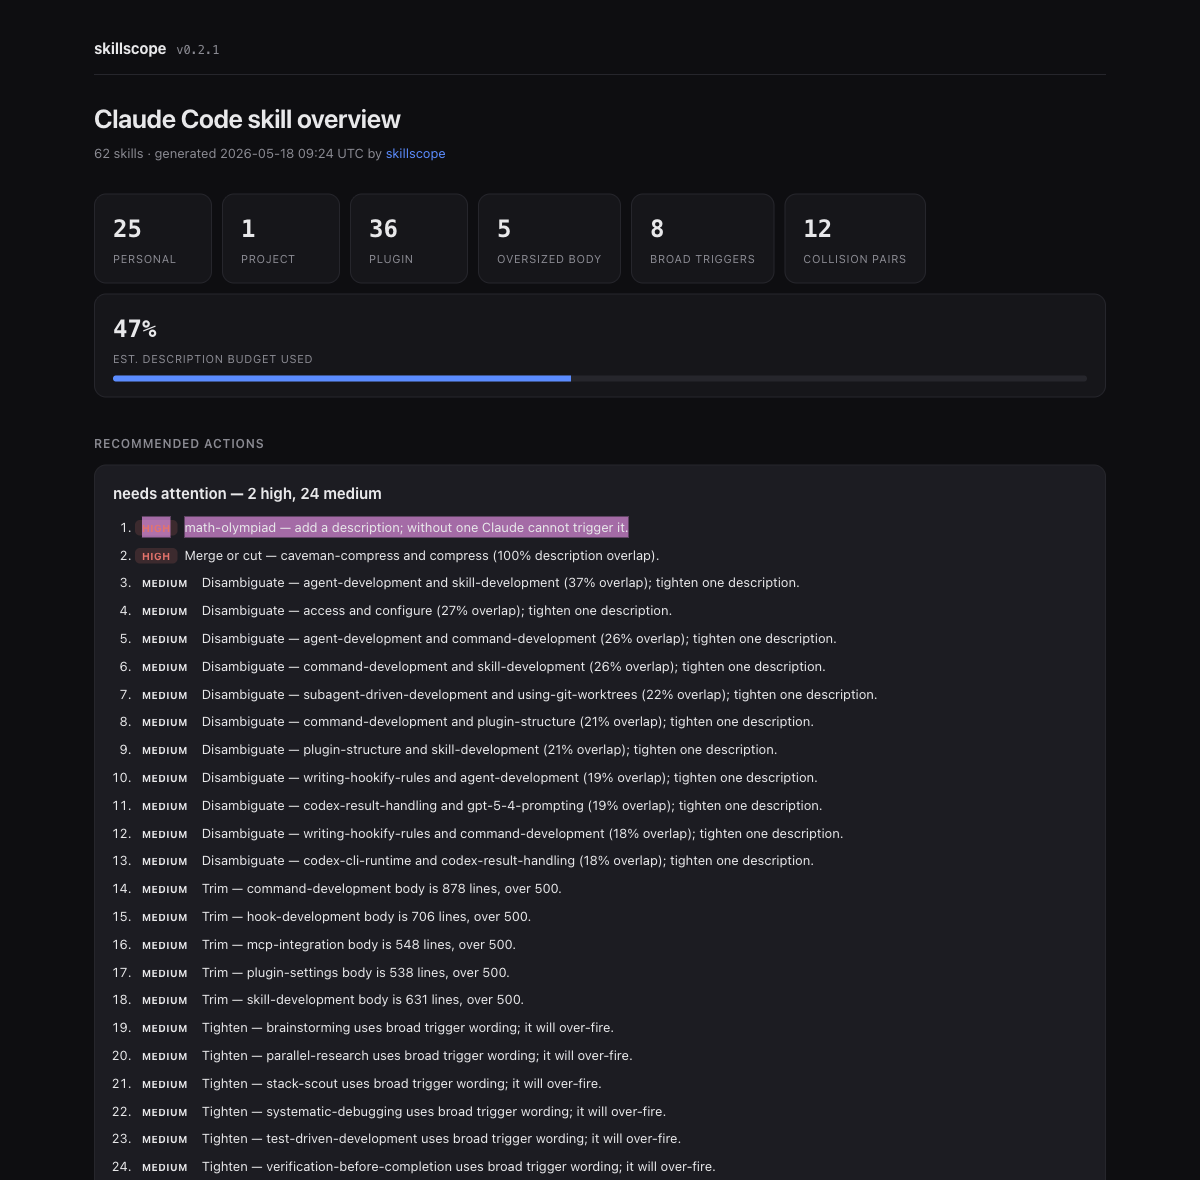
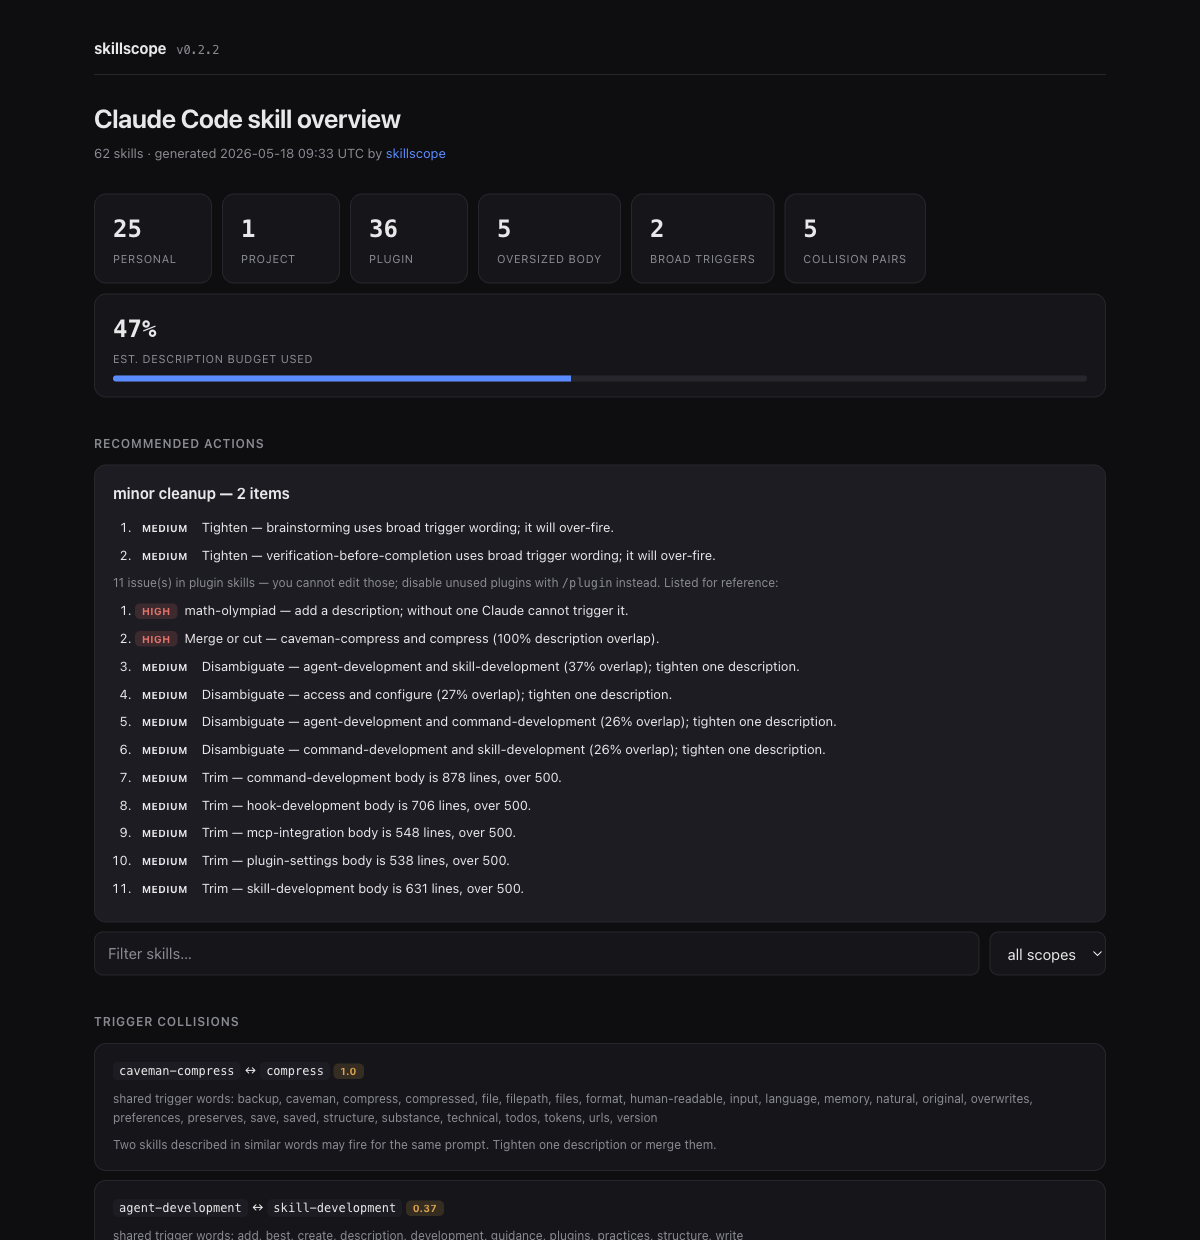
fix: separate editable from plugin actions; cut heuristic noise
Dogfooding the tool on a real 62-skill setup exposed three defects:

- The action list mixed plugin skills (un-editable, /plugin-managed) with
  the user's own. 17 of 26 actions were unfixable noise. Actions now carry
  an `editable` flag; plugin issues are listed for reference only and the
  verdict counts editable actions alone.
- Broad-trigger detection flagged bare "any"/"every", false-positiving on
  scoped phrases ("any edit under data/migrations/"). Now only strong
  signals (must use, before any, always, …) flag.
- Collision threshold raised 0.18 -> 0.25; below that is shared vocabulary,
  not a real trigger conflict.

On the test setup this collapsed a misleading "needs attention — 2 high,
24 medium" down to an honest "minor cleanup — 2 items".

diff --git a/skillscope.py b/skillscope.py
@@ -21,23 +21,25 @@ from datetime import datetime, timezone
 
 # --- constants ---------------------------------------------------------------
 
-VERSION = "0.2.1"
+VERSION = "0.2.2"
 # Official guideline: keep a SKILL.md body under 500 lines.
 BODY_LINE_LIMIT = 500
 # Official cap: description + when_to_use is truncated at 1536 chars in the
 # skill listing. Going over means triggers get silently cut.
 DESC_CHAR_CAP = 1536
-# Words that make a description fire very broadly — usually unintended.
-# Matched on word boundaries, so "any" does not match "many".
-AGGRESSIVE_WORDS = ("any", "every", "always", "all conversations",
-                    "before any", "must use", "starting any")
+# Strong "fires on everything" signals. Bare "any"/"every" are deliberately
+# excluded — they false-positive on scoped phrases such as "any edit under
+# data/migrations/" or "any task bigger than a bug fix", which are not broad.
+AGGRESSIVE_WORDS = ("always", "must use", "before any", "starting any",
+                    "all conversations", "every time")
 # Plugin-tree path fragments that hold duplicates or non-loaded copies.
 PLUGIN_SKIP = ("/cache/", "/.cursor/", "/.cursor-plugin/", "/.windsurf/",
                "/.codex/", "/.codex-plugin/", "/.opencode/", "/.gemini/",
                "/tests/", "/test/", "/template/", "/templates/", "/spec/",
                "/examples/", "/example/")
 # Jaccard threshold above which two descriptions are flagged as colliding.
-COLLISION_THRESHOLD = 0.18
+# Below ~0.25 it is mostly shared vocabulary, not a real trigger conflict.
+COLLISION_THRESHOLD = 0.25
 STOPWORDS = set("""a an the of to and or in on with for from by as is are be
 this that use uses used using when whenever should must do not don't user
 users claude code skill skills task tasks it its your you via per into out
@@ -265,45 +267,59 @@ def find_collisions(skills):
 
 
 def build_actions(skills, collisions):
-    """Turn raw findings into a ranked to-do list and a one-line verdict."""
-    actions = []  # (rank, severity, text); rank 0 = high, 1 = medium
+    """Turn raw findings into a ranked to-do list and a one-line verdict.
+
+    Each action is a dict with `editable` set True when it targets a personal
+    or project skill the user can change, False for plugin skills (which the
+    user cannot edit — they are managed through `/plugin`). The verdict counts
+    only editable actions, so plugin noise never inflates it.
+    """
+    scope = {s["name"]: s.get("scope", "personal") for s in skills}
+    actions = []  # dicts: rank, severity, text, editable
+
+    def add(rank, severity, text, editable):
+        actions.append({"rank": rank, "severity": severity,
+                        "text": text, "editable": editable})
 
     for s in skills:
         if not s["description"]:
-            actions.append((0, "high", f"{s['name']} — add a description; "
-                            "without one Claude cannot trigger it."))
+            add(0, "high", f"{s['name']} — add a description; without one "
+                "Claude cannot trigger it.", s.get("scope") != "plugin")
     for c in collisions:
         pct = int(round(c["score"] * 100))
+        # Editable if at least one side is yours — you can tighten that one.
+        editable = (scope.get(c["a"]) != "plugin"
+                    or scope.get(c["b"]) != "plugin")
         if c["score"] >= 0.6:
-            actions.append((0, "high", f"Merge or cut — {c['a']} and {c['b']} "
-                            f"({pct}% description overlap)."))
+            add(0, "high", f"Merge or cut — {c['a']} and {c['b']} "
+                f"({pct}% description overlap).", editable)
         else:
-            actions.append((1, "medium", f"Disambiguate — {c['a']} and "
-                            f"{c['b']} ({pct}% overlap); tighten one "
-                            f"description."))
+            add(1, "medium", f"Disambiguate — {c['a']} and {c['b']} "
+                f"({pct}% overlap); tighten one description.", editable)
     for s in skills:
         if s["body_lines"] > BODY_LINE_LIMIT:
-            actions.append((1, "medium", f"Trim — {s['name']} body is "
-                            f"{s['body_lines']} lines, over {BODY_LINE_LIMIT}."))
+            add(1, "medium", f"Trim — {s['name']} body is {s['body_lines']} "
+                f"lines, over {BODY_LINE_LIMIT}.", s.get("scope") != "plugin")
     for s in skills:
         if any("Broad trigger" in w[1] for w in s["warnings"]):
-            actions.append((1, "medium", f"Tighten — {s['name']} uses broad "
-                            "trigger wording; it will over-fire."))
+            add(1, "medium", f"Tighten — {s['name']} uses broad trigger "
+                "wording; it will over-fire.", s.get("scope") != "plugin")
     for s in skills:
         if s["desc_len"] > DESC_CHAR_CAP:
-            actions.append((1, "medium", f"Shorten — {s['name']} description "
-                            f"is {s['desc_len']} chars, over the "
-                            f"{DESC_CHAR_CAP}-char cap."))
-    actions.sort(key=lambda a: a[0])
+            add(1, "medium", f"Shorten — {s['name']} description is "
+                f"{s['desc_len']} chars, over the {DESC_CHAR_CAP}-char cap.",
+                s.get("scope") != "plugin")
+    actions.sort(key=lambda a: a["rank"])
 
-    highs = sum(1 for a in actions if a[1] == "high")
-    meds = sum(1 for a in actions if a[1] == "medium")
+    editable = [a for a in actions if a["editable"]]
+    highs = sum(1 for a in editable if a["severity"] == "high")
+    meds = sum(1 for a in editable if a["severity"] == "medium")
     if highs:
         verdict = f"needs attention — {highs} high, {meds} medium"
     elif meds:
         verdict = f"minor cleanup — {meds} item{'s' if meds != 1 else ''}"
     else:
-        verdict = "healthy — no action needed"
+        verdict = "your skills are healthy — no action needed"
     return actions, verdict
 
 
@@ -434,14 +450,26 @@ def render_html(skills, collisions, budget, actions=None, verdict=""):
                  f"</div></div>")
     parts.append("</div>")
 
+    editable = [a for a in actions if a["editable"]]
+    plugin = [a for a in actions if not a["editable"]]
     parts.append("<h2>Recommended actions</h2>")
     parts.append(f"<div class='card actions'><div class=verdict>{e(verdict)}"
                  "</div>")
-    if actions:
+    if editable:
         parts.append("<ol>")
-        for _rank, sev, text in actions:
-            parts.append(f"<li><span class='pill {sev}'>{sev}</span>"
-                         f"{e(text)}</li>")
+        for a in editable:
+            parts.append(f"<li><span class='pill {a['severity']}'>"
+                         f"{a['severity']}</span>{e(a['text'])}</li>")
+        parts.append("</ol>")
+    if plugin:
+        parts.append(f"<div class=note>{len(plugin)} issue(s) in plugin "
+                     "skills — you cannot edit those; disable unused plugins "
+                     "with <code>/plugin</code> instead. Listed for "
+                     "reference:</div>")
+        parts.append("<ol>")
+        for a in plugin:
+            parts.append(f"<li><span class='pill {a['severity']}'>"
+                         f"{a['severity']}</span>{e(a['text'])}</li>")
         parts.append("</ol>")
     parts.append("</div>")
 
@@ -576,17 +604,22 @@ def main():
     print(f"Wrote {args.out}  ({len(skills)} skills, "
           f"{len(collisions)} collision pairs)")
 
+    editable = [a for a in actions if a["editable"]]
+    plugin = [a for a in actions if not a["editable"]]
     print(f"\nVerdict: {verdict}")
-    for _rank, sev, text in actions[:5]:
-        print(f"  [{sev:>6}] {text}")
-    if len(actions) > 5:
-        print(f"  … {len(actions) - 5} more in the report")
+    for a in editable[:5]:
+        print(f"  [{a['severity']:>6}] {a['text']}")
+    if len(editable) > 5:
+        print(f"  … {len(editable) - 5} more in the report")
+    if plugin:
+        print(f"  ({len(plugin)} issue(s) in plugin skills — not yours to "
+              f"edit; see the report)")
 
     if args.json:
         payload = {"generated": datetime.now(timezone.utc).isoformat(),
                    "verdict": verdict,
-                   "actions": [{"severity": sev, "text": text}
-                               for _r, sev, text in actions],
+                   "actions": [{"severity": a["severity"], "text": a["text"],
+                                "editable": a["editable"]} for a in actions],
                    "budget": budget, "collisions": collisions,
                    "skills": [{k: v for k, v in s.items() if k != "path"}
                               for s in skills]}

diff --git a/tests/test_skillscope.py b/tests/test_skillscope.py
@@ -88,11 +88,12 @@ class TestAnalysis(unittest.TestCase):
         s = self._skill(description="")
         self.assertTrue(any(level == "high" for level, _ in s["warnings"]))
 
-    def test_broad_trigger_word_boundary(self):
-        # "many" must NOT trip the "any" rule.
-        s = self._skill(description="Handles many ordinary files.")
+    def test_broad_trigger_detection(self):
+        # Bare "any" is a scoped word, not a broad trigger — must NOT flag.
+        s = self._skill(description="Use for any edit under data/migrations/.")
         self.assertFalse(any("Broad trigger" in w[1] for w in s["warnings"]))
-        s2 = self._skill(description="Use for any request at any time.")
+        # Strong signals still flag.
+        s2 = self._skill(description="You must use this before any work.")
         self.assertTrue(any("Broad trigger" in w[1] for w in s2["warnings"]))
 
     def test_when_to_use_feeds_triggers(self):
@@ -127,13 +128,24 @@ class TestCollisionsAndBudget(unittest.TestCase):
         self.assertEqual(actions, [])
         self.assertIn("healthy", verdict)
 
+        # Plugin-scope problems must not count toward the verdict.
+        plug = ss.analyse({"name": "plug", "description": "",
+                           "when_to_use": "", "disable_model_invocation": False,
+                           "user_invocable": True, "allowed_tools": "",
+                           "body_lines": 20, "path": "p", "scope": "plugin"})
+        actions, verdict = ss.build_actions([plug], [])
+        self.assertEqual(len(actions), 1)
+        self.assertFalse(actions[0]["editable"])
+        self.assertIn("healthy", verdict)  # plugin issue does not move verdict
+
         bad = ss.analyse({"name": "bad", "description": "",
                           "when_to_use": "", "disable_model_invocation": False,
                           "user_invocable": True, "allowed_tools": "",
                           "body_lines": 20, "path": "b"})
         actions, verdict = ss.build_actions([bad], [])
         self.assertTrue(actions)
-        self.assertEqual(actions[0][1], "high")  # high ranked first
+        self.assertEqual(actions[0]["severity"], "high")  # high ranked first
+        self.assertTrue(actions[0]["editable"])
         self.assertIn("high", verdict)
 
     def test_html_injection_is_escaped(self):

diff --git a/CHANGELOG.md b/CHANGELOG.md
@@ -3,6 +3,19 @@
 All notable changes to this project are documented here. Format follows
 [Keep a Changelog](https://keepachangelog.com/).
 
+## [0.2.2] - 2026-05-18
+
+### Changed
+- Recommended actions now separate **your** skills (personal + project, which
+  you can edit) from **plugin** skills (which you cannot — they are listed for
+  reference only). The verdict counts editable actions only, so plugin noise
+  no longer inflates it.
+- Broad-trigger detection no longer flags bare `any`/`every` — they
+  false-positived on scoped phrases like "any edit under data/migrations/".
+  Only strong signals (`must use`, `before any`, `always`, …) flag now.
+- Collision threshold raised 0.18 → 0.25; below that it is shared vocabulary,
+  not a real trigger conflict.
+
 ## [0.2.1] - 2026-05-18
 
 ### Changed